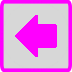
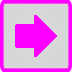
Change abit of store n enemy pouncing

diff --git a/Classes/MainMenuScene.cpp b/Classes/MainMenuScene.cpp
@@ -86,20 +86,20 @@ bool CMainMenuScene::init()
 	startLabel->setColor(labelColor);
 	startButton->addChild(startLabel);
 	
-	// Create store button
-	auto storeButton = MenuItemImage::create(	"images/ui/button.png",
-												"images/ui/button_selected.png",
-												CC_CALLBACK_1(CMainMenuScene::goStoreCallback, this));
-	/*storeButton->setScale(	buttonSize.width / storeButton->getContentSize().width,
-							buttonSize.height / storeButton->getContentSize().height);*/
-	storeButton->setPosition(startButton->getPosition() - Vec2(0, (startButton->getScaleY() * startButton->getContentSize().height) * 0.5f) + buttonPositionOffset);
-	menuItemList.pushBack(storeButton);
-	// store label
-	auto storeLabel = MenuItemLabel::create(Label::createWithTTF("Store", font, fontSize));
-	storeLabel->setPosition(Vec2(	storeButton->getContentSize().width * 0.5f,
-									storeButton->getContentSize().height * 0.5f));
-	storeLabel->setColor(labelColor);
-	storeButton->addChild(storeLabel);
+	//// Create store button
+	//auto storeButton = MenuItemImage::create(	"images/ui/button.png",
+	//											"images/ui/button_selected.png",
+	//											CC_CALLBACK_1(CMainMenuScene::goStoreCallback, this));
+	///*storeButton->setScale(	buttonSize.width / storeButton->getContentSize().width,
+	//						buttonSize.height / storeButton->getContentSize().height);*/
+	//storeButton->setPosition(startButton->getPosition() - Vec2(0, (startButton->getScaleY() * startButton->getContentSize().height) * 0.5f) + buttonPositionOffset);
+	//menuItemList.pushBack(storeButton);
+	//// store label
+	//auto storeLabel = MenuItemLabel::create(Label::createWithTTF("Store", font, fontSize));
+	//storeLabel->setPosition(Vec2(	storeButton->getContentSize().width * 0.5f,
+	//								storeButton->getContentSize().height * 0.5f));
+	//storeLabel->setColor(labelColor);
+	//storeButton->addChild(storeLabel);
 	
 	// Create exit button
 	auto exitButton = MenuItemImage::create(	"images/ui/button.png",
@@ -107,7 +107,7 @@ bool CMainMenuScene::init()
 											CC_CALLBACK_1(CMainMenuScene::exitGameCallback, this));
 	/*exitButton->setScale(	buttonSize.width / exitButton->getContentSize().width,
 							buttonSize.height / exitButton->getContentSize().height);*/
-	exitButton->setPosition(storeButton->getPosition() - Vec2(0, (storeButton->getContentSize().height) * 0.5f) + buttonPositionOffset);
+	exitButton->setPosition(startButton->getPosition() - Vec2(0, (startButton->getContentSize().height) * 0.5f) + buttonPositionOffset);
 	menuItemList.pushBack(exitButton);
 	// exit label
 	auto exitLabel = MenuItemLabel::create(Label::createWithTTF("Exit", font, fontSize));
@@ -127,10 +127,17 @@ bool CMainMenuScene::init()
 void CMainMenuScene::startGameCallback(Ref* pSender)
 {
 	// Save data
-	std::stringstream ss1;
+	std::stringstream ss1, ss2, ss3;
 
-	ss1 << 1 << "\n";
-	FileOperation::saveFile(ss1.str(), FileOperation::LEVEL_DATA_FILE_TYPE);
+	ss1 << 0 << "\n";
+	FileOperation::saveFile(ss1.str(), FileOperation::CURRENCY_DATA_FILE_TYPE);
+
+	ss2 << 3 << "\n";
+	ss2 << 25 << "\n";
+	FileOperation::saveFile(ss2.str(), FileOperation::PLAYER_DATA_FILE_TYPE);
+
+	ss3 << 1 << "\n";
+	FileOperation::saveFile(ss3.str(), FileOperation::LEVEL_DATA_FILE_TYPE);
 
 	CGameStateManager::getInstance()->switchState(CGameStateManager::STATE_GAMEPLAY);
 }

diff --git a/Classes/StoreScene.cpp b/Classes/StoreScene.cpp
@@ -131,16 +131,16 @@ bool CStoreScene::init()
 	upgradeLabelMaxMana->setTag(MANA_CHILD_TAG_FOR_MENU);
 	upgradeButtonMaxMana->addChild(upgradeLabelMaxMana);
 
-	// Create back to main menu button
-	auto backToMainMenuButton = MenuItemImage::create(	"images/ui/back.png",
-														"images/ui/back_selected.png",
-														CC_CALLBACK_1(CStoreScene::backToMainMenuCallback, this));
-	//backToMainMenuButton->setScale(	visibleSize.height * 0.15f / backToMainMenuButton->getContentSize().width,
+	// Create next button
+	auto nextButton = MenuItemImage::create(	"images/ui/back.png",
+												"images/ui/back_selected.png",
+												CC_CALLBACK_1(CStoreScene::NextCallback, this));
+	//nextButton->setScale(	visibleSize.height * 0.15f / backToMainMenuButton->getContentSize().width,
 	//								visibleSize.height * 0.15f / backToMainMenuButton->getContentSize().height);
-	backToMainMenuButton->setAnchorPoint(Vec2::ANCHOR_BOTTOM_LEFT);
+	nextButton->setAnchorPoint(Vec2::ANCHOR_BOTTOM_RIGHT);
 	float offSet = visibleSize.height * 0.025f;
-	backToMainMenuButton->setPosition(origin + Vec2(offSet, offSet));
-	menuItemList.pushBack(backToMainMenuButton);
+	nextButton->setPosition(origin + Vec2(visibleSize.width - offSet, offSet));
+	menuItemList.pushBack(nextButton);
 
     // Create menu
 	auto menu = Menu::createWithArray(menuItemList);
@@ -161,22 +161,22 @@ bool CStoreScene::init()
 
 void CStoreScene::upgradeMaxLives(Ref* pSender)
 {
-	if (m_nLives >= 10 || !EditCoins(-10 * (m_nLives + 1)))
+	if (m_nLives >= 10 || !EditCoins(-1 * (m_nLives + 1)))
 		return;
 	m_nLives += 1;
 	ChangeLivesLabel();
 }
 void CStoreScene::upgradeMaxMana(Ref* pSender)
 {
-	if (m_nMana >= 100 || !EditCoins(-2 * (m_nMana + 5)))
+	if (m_nMana >= 100 || !EditCoins(-1 * (m_nMana + 5)))
 		return;
 	m_nMana += 5;
 	ChangeManaLabel();
 }
-void CStoreScene::backToMainMenuCallback(Ref* pSender)
+void CStoreScene::NextCallback(Ref* pSender)
 {
 	saveData();
-	CGameStateManager::getInstance()->switchState(CGameStateManager::STATE_MAINMENU);
+	CGameStateManager::getInstance()->switchState(CGameStateManager::STATE_GAMEPLAY);
 }
 
 void CStoreScene::getData()

diff --git a/Classes/GameObjectManager.cpp b/Classes/GameObjectManager.cpp
@@ -161,25 +161,33 @@ void CGameObjectManager::SpawnEnemy(Vec2 vec2Position, CEnemy::ENEMY_TYPE eEnemy
 	Size visibleSize = Director::getInstance()->getVisibleSize();
 	switch (eEnemyType)
 	{
-	case CEnemy::ENEMY_TYPE_SHOOTER:
+		case CEnemy::ENEMY_TYPE_WEAK:
 		{
+			enemy->GetSprite()->setColor(Color3B::WHITE);
+			break;
+		}
+		case CEnemy::ENEMY_TYPE_STRONG:
+		{
+			enemy->GetSprite()->setColor(Color3B::YELLOW);
+			break;
+		}
+		case CEnemy::ENEMY_TYPE_SHOOTER:
+		{
+			enemy->GetSprite()->setColor(Color3B::GREEN);
 			aiEnmey->SetShootingInfomations(2.0f, m_ProjectileSpriteSize, 200.0f, visibleSize.width * 0.3f);
 			break;
 		}
 		case CEnemy::ENEMY_TYPE_POUNCER:
 		{
-			aiEnmey->SetPounceInfomations(0.5f, m_arrayOfEnemySpriteSizes[eEnemyType].height * 0.5f, 2.0f);
+			enemy->GetSprite()->setColor(Color3B::RED);
+			aiEnmey->SetPounceInfomations(0.75f, m_arrayOfEnemySpriteSizes[eEnemyType].height * 0.5f, 2.0f);
 			break;
 		}
 		case CEnemy::ENEMY_TYPE_HYBRID:
 		{
+			enemy->GetSprite()->setColor(Color3B::MAGENTA);
 			aiEnmey->SetPounceInfomations(0.75f, m_arrayOfEnemySpriteSizes[eEnemyType].height * 0.5f, 2.0f);
 			aiEnmey->SetShootingInfomations(2.0f, m_ProjectileSpriteSize, 200.0f, visibleSize.width * 0.3f);
-			break;
-		}
-		default:
-		{
-			aiEnmey->SetPounceInfomations();
 			break;
 		}
 	}

diff --git a/Classes/AIEnemy.cpp b/Classes/AIEnemy.cpp
@@ -274,8 +274,9 @@ void CAIEnemy::Pounce()
 		// Deactivate Gravity
 		m_pGO->getPhysicsBody()->setGravityEnable(false);
 		// Jump
-		float distance = m_pTargetGO->getPosition().distance(m_pGO->getPosition());
-		auto jumpAction = JumpTo::create(m_pounceInfomations.m_fPounceDuration, m_pTargetGO->getPosition(), m_pounceInfomations.m_fPounceHeight, 1);
+		Vec2 targetPos(m_pTargetGO->getPositionX(), m_pGO->getPositionY());
+		float distance = targetPos.distance(m_pGO->getPosition());
+		auto jumpAction = JumpTo::create(m_pounceInfomations.m_fPounceDuration * distance / m_sRanges.m_fPouncingRange, targetPos, m_pounceInfomations.m_fPounceHeight, 1);
 		// Activate Gravity
 		auto activateGravityAction = CallFunc::create([this]()
 		{

diff --git a/Classes/WonOrGameoverLayer.cpp b/Classes/WonOrGameoverLayer.cpp
@@ -178,7 +178,7 @@ void CWonOrGameoverLayer::nextLevelCallback(Ref* pSender)
 		// Save data
 		gameScene->endScene(true);
 	}
-	CGameStateManager::getInstance()->switchState(CGameStateManager::STATE_GAMEPLAY);
+	CGameStateManager::getInstance()->switchState(CGameStateManager::STATE_STORE);
 }
 void CWonOrGameoverLayer::restartCallback(Ref* pSender)
 {

diff --git a/Classes/StoreScene.h b/Classes/StoreScene.h
@@ -14,7 +14,7 @@ public:
     // Selector callbacks
 	void upgradeMaxLives(cocos2d::Ref* pSender);
 	void upgradeMaxMana(cocos2d::Ref* pSender);
-	void backToMainMenuCallback(cocos2d::Ref* pSender);
+	void NextCallback(cocos2d::Ref* pSender);
 
     // implement the "static create()" method manually
 	CREATE_FUNC(CStoreScene);
